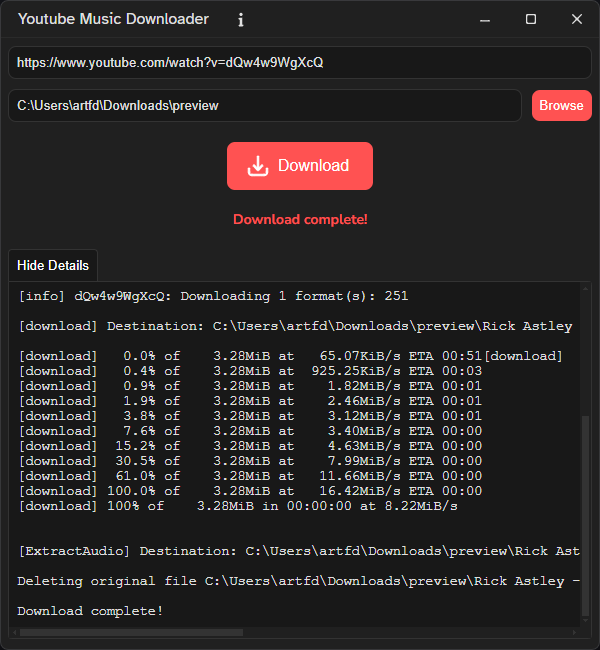
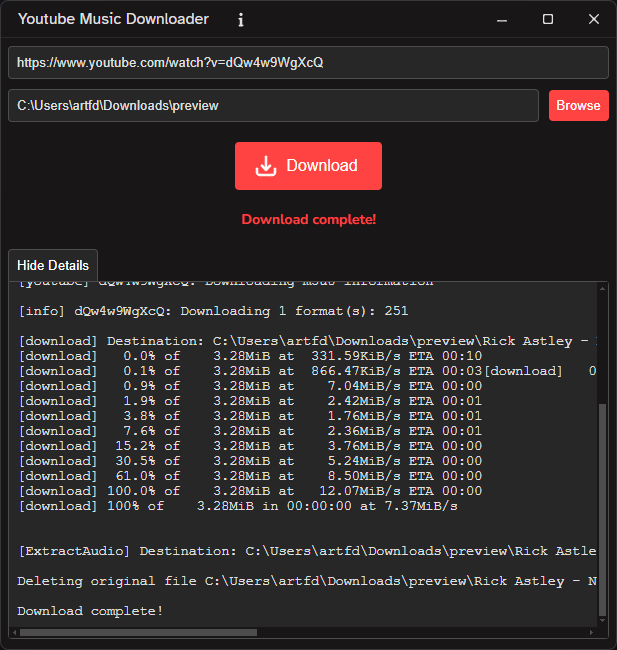
Updated colors

diff --git a/src/style.css b/src/style.css
@@ -7,21 +7,21 @@
 }
 
 :root {
-    --background-color: #181818;
-    --secondary-background-color: #202020;
+    --background-color: #272727;
+    --secondary-background-color: #181617;
     --foreground-color: #e0e0e0;
-    --accent-color: #ff5252;
-    --border-color: #333;
+    --accent-color: #ff4343;
+    --border-color: #4d4d4d;
     --secondary-border-color: #2a2a2a;
-    --hover-color: #2d2d2d;
-    --highlight-color: #ff7a7a;
+    --hover-color: #2f2f2f;
+    --highlight-color: #ff2551;
 
     --font-family: "Nunito Sans", sans-serif;
     --secondary-font-family: "Atkinson Hyperlegible", sans-serif;
     --font-size-base: 14px;
     --font-weight-base: 400;
     --padding: 8px;
-    --border-radius: 8px;
+    --border-radius: 4px;
     --scrollbar-width: 8px;
 }
 
